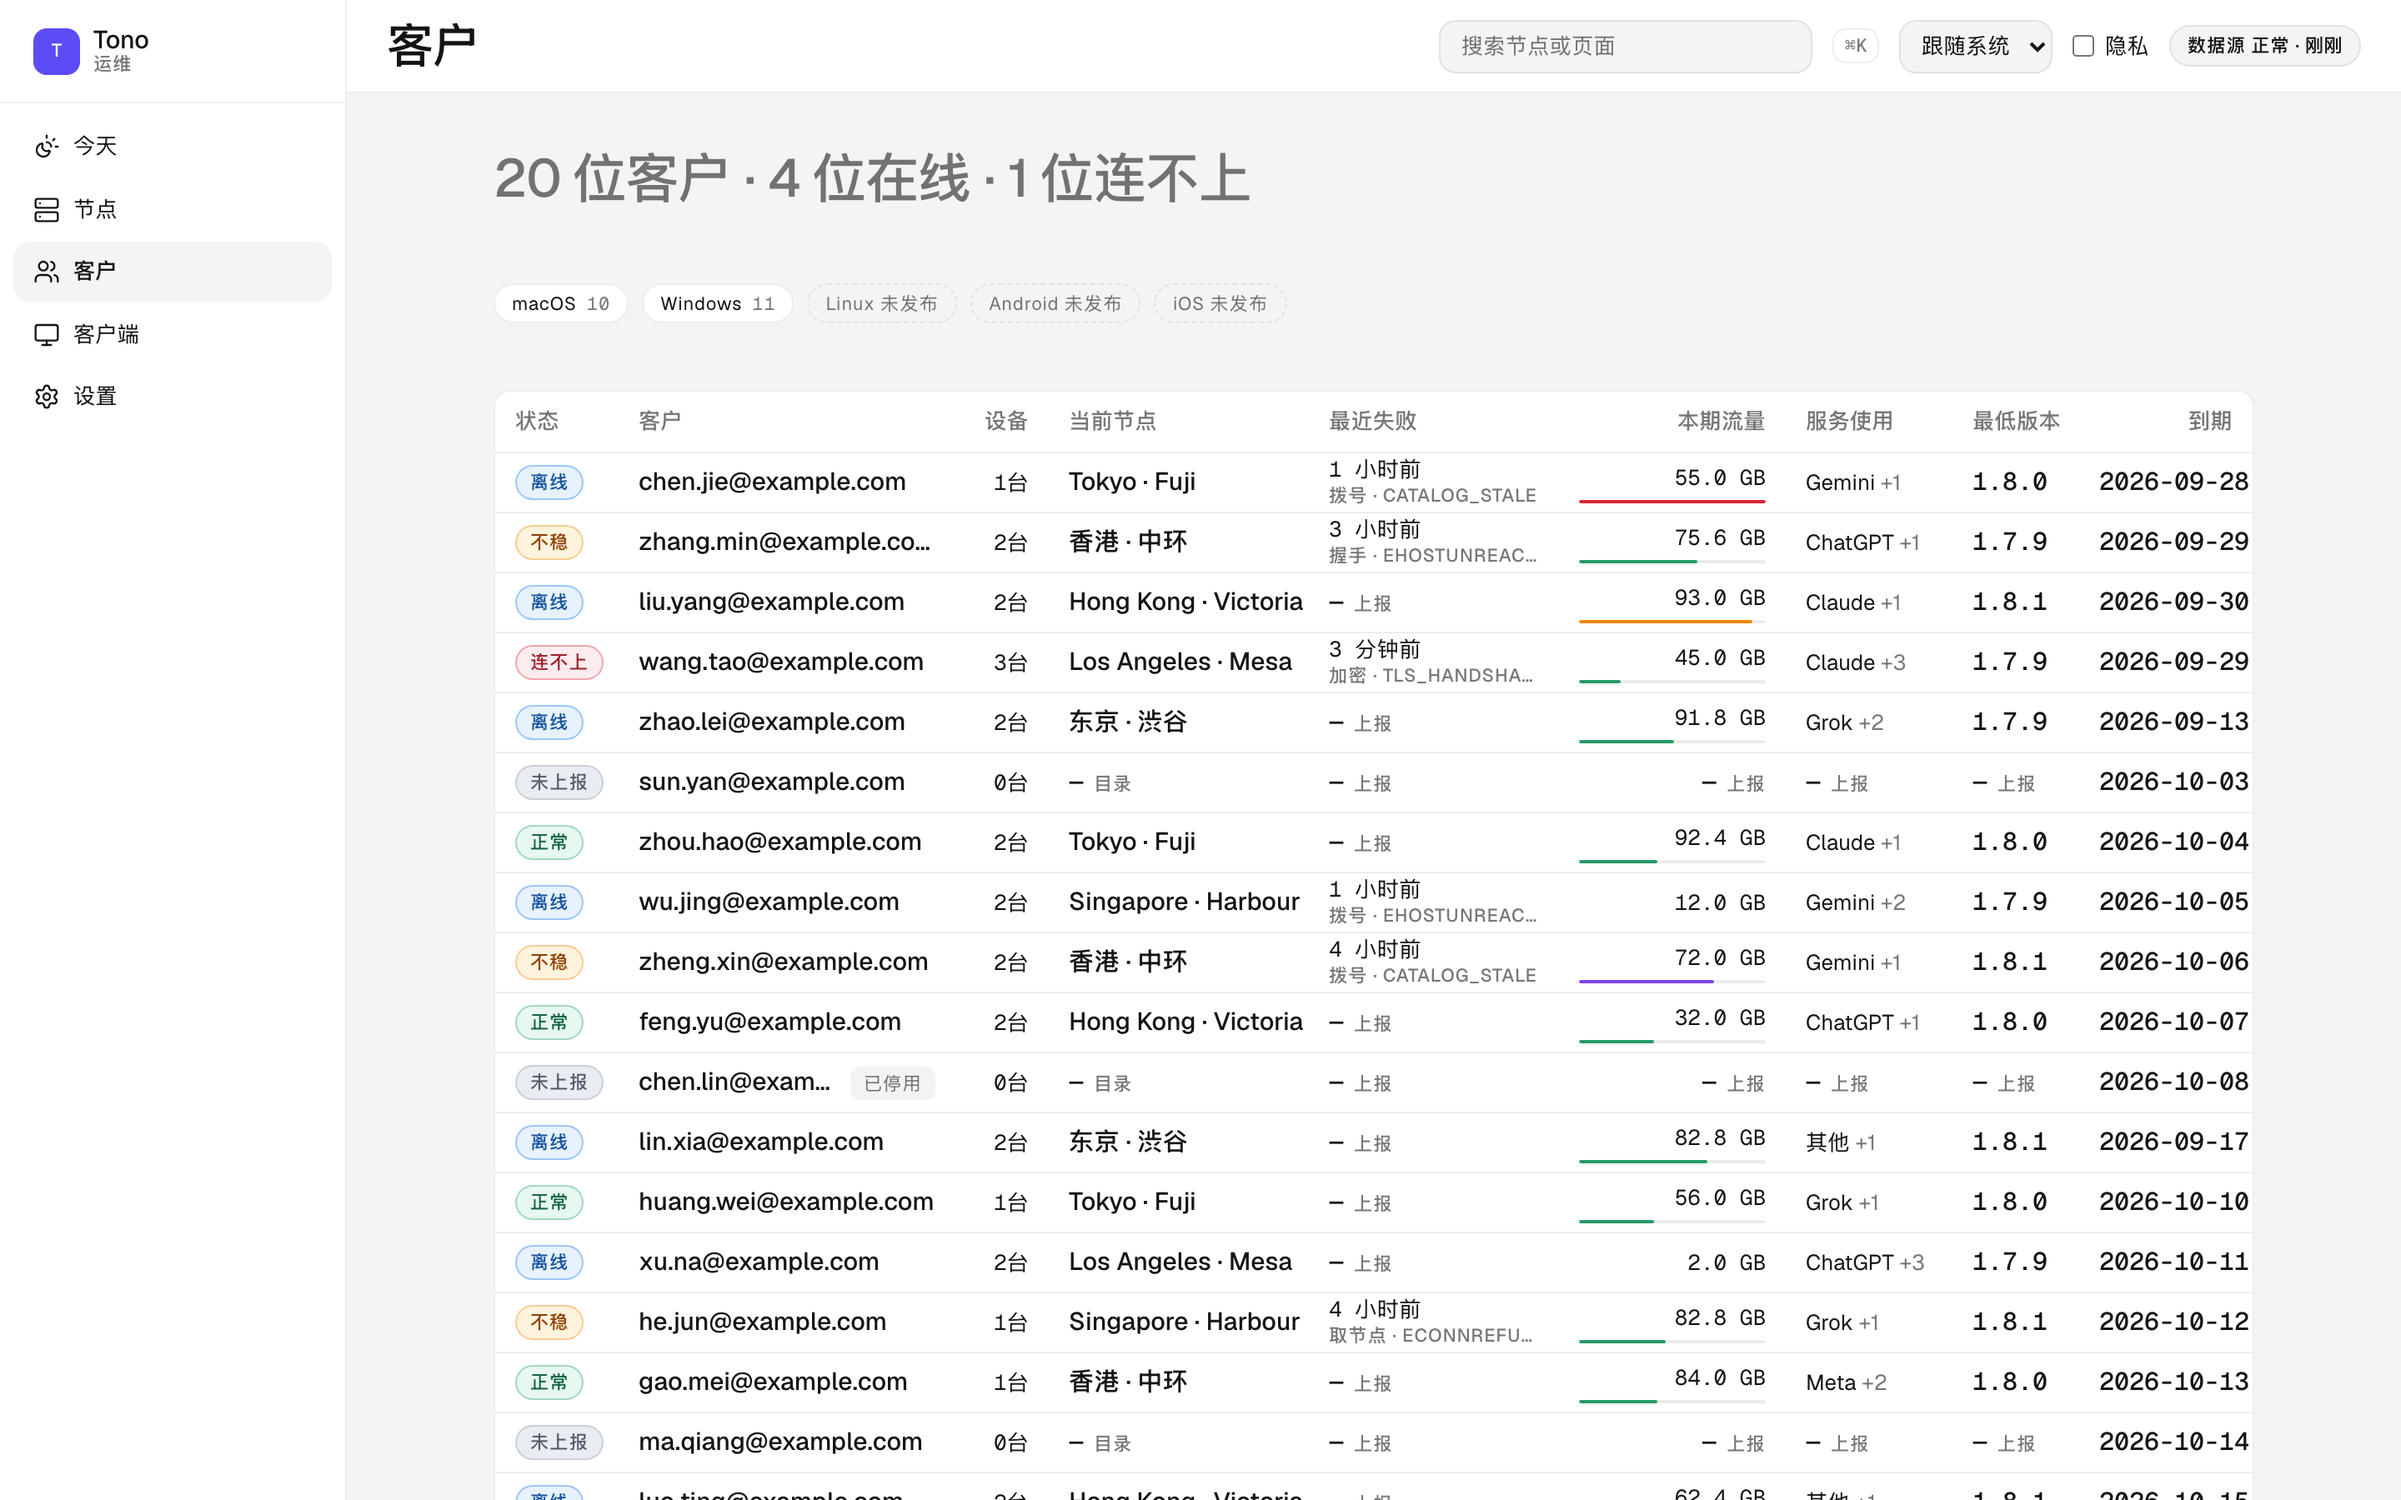
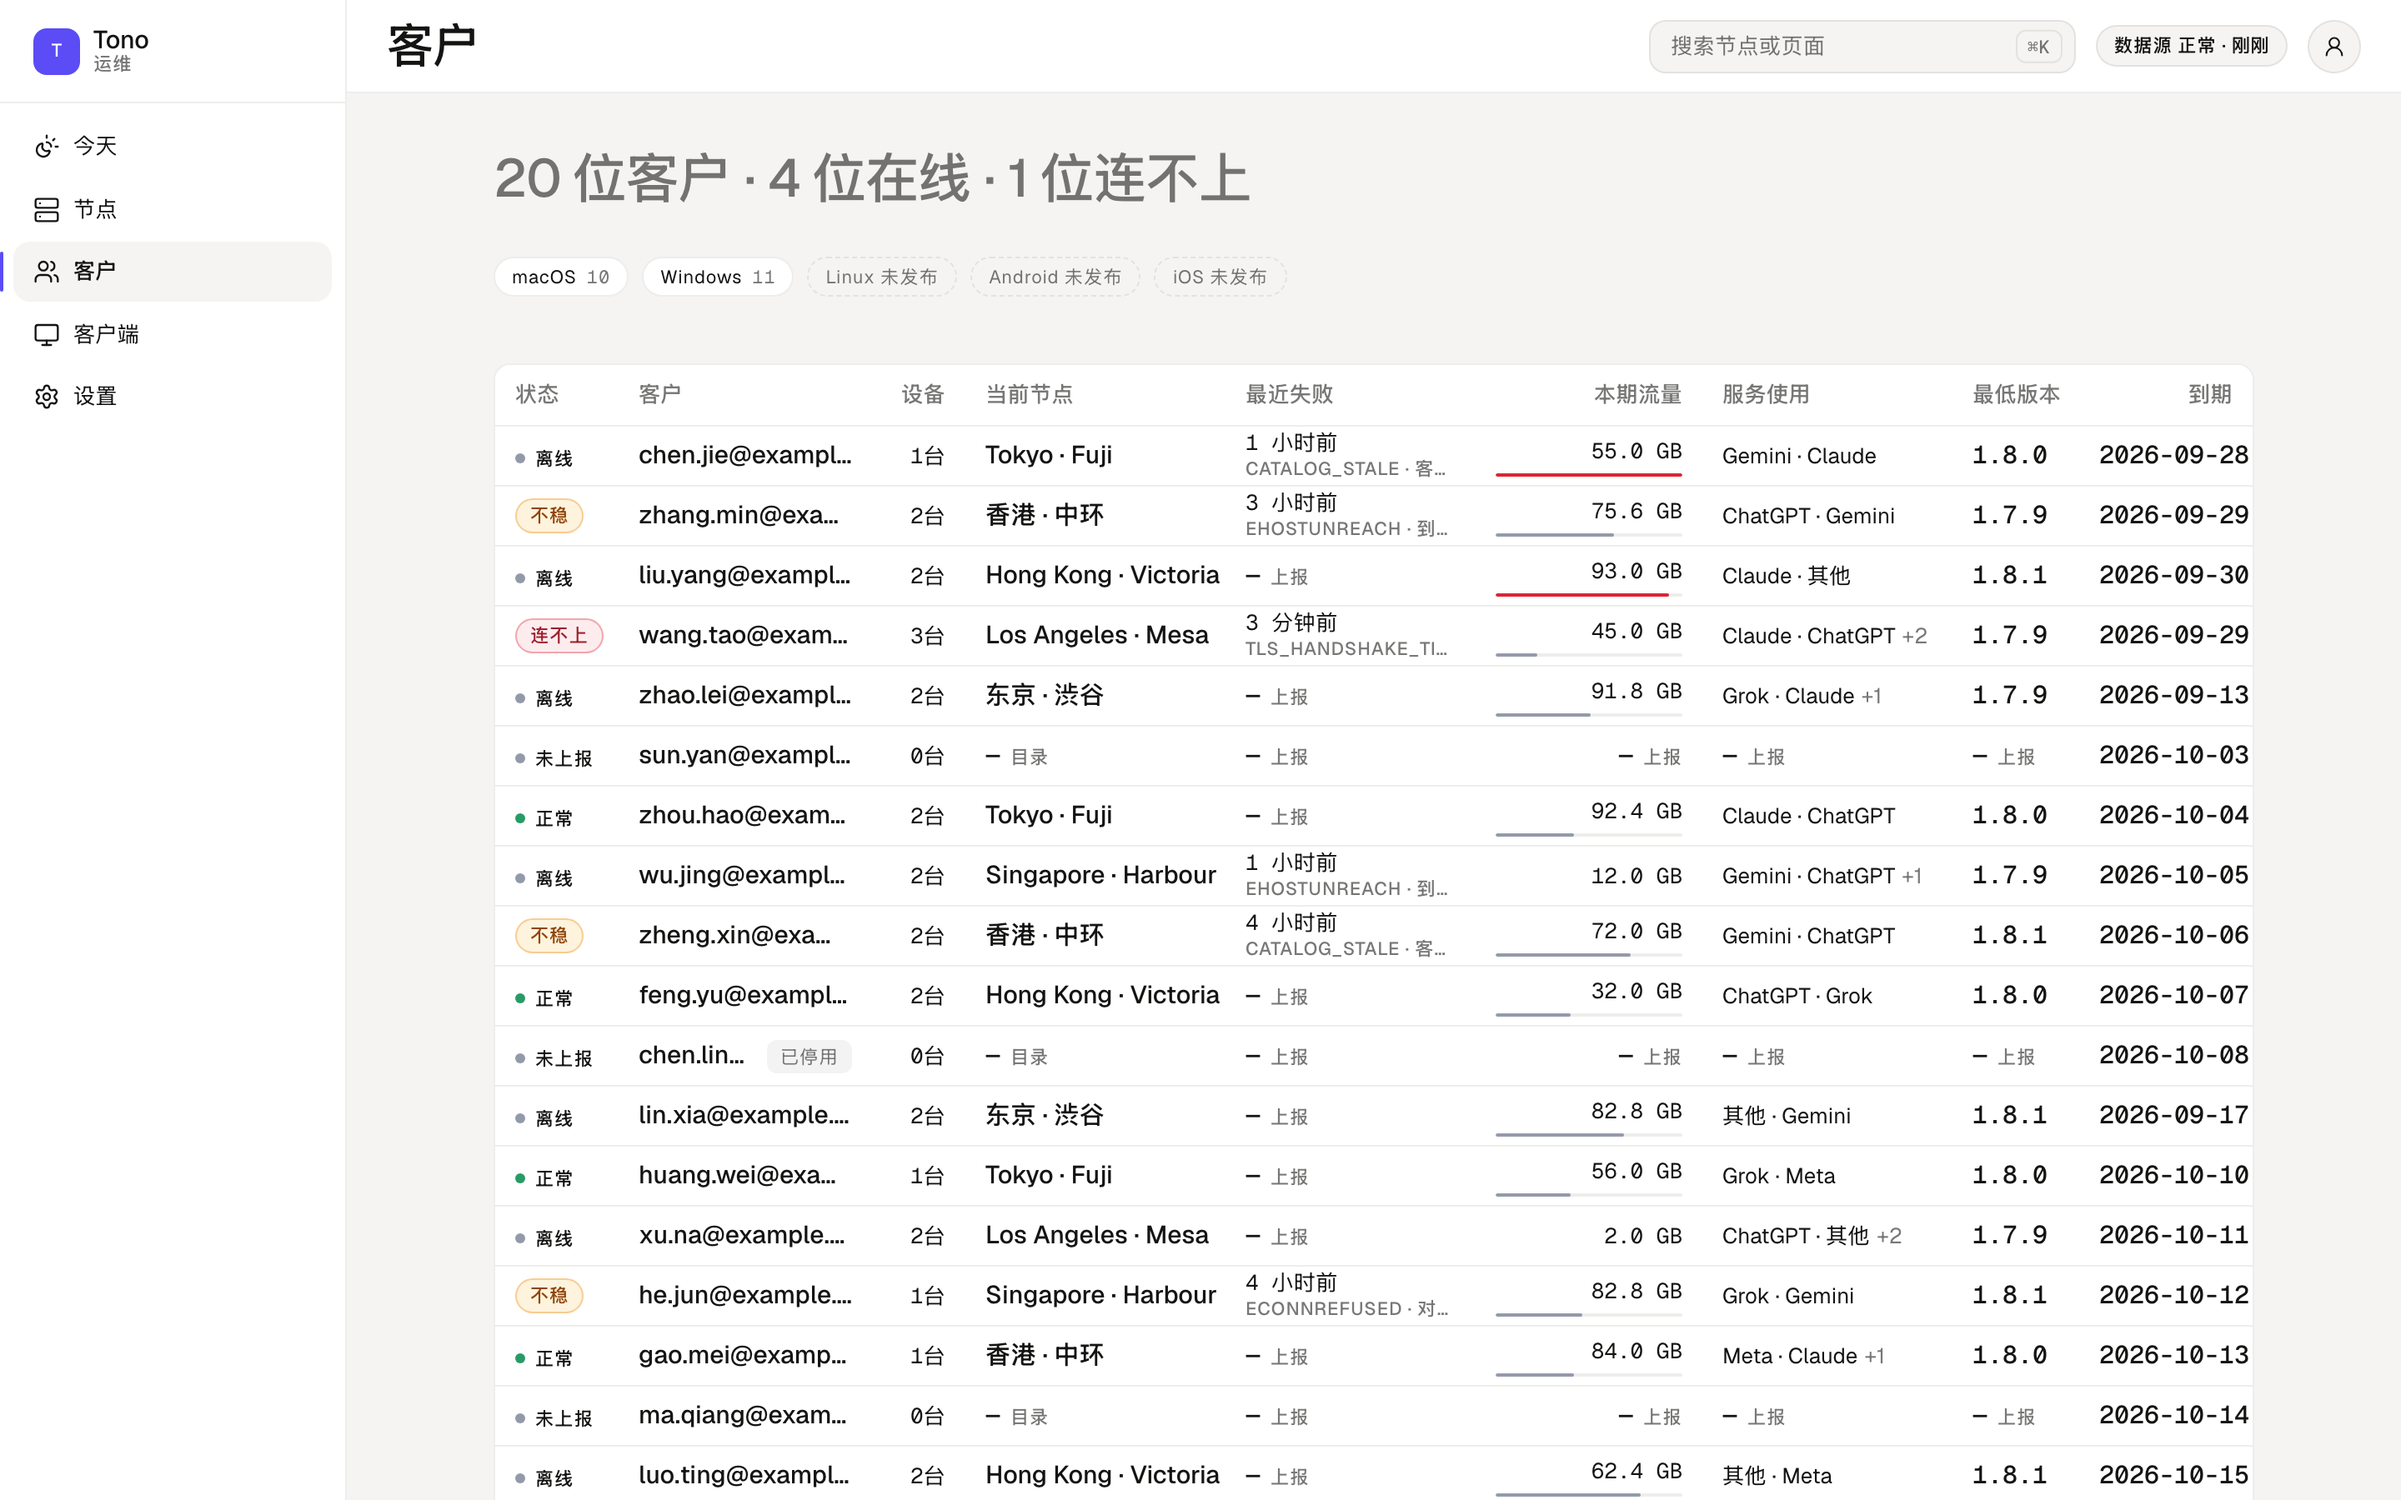
feat(ops-console): three columns of the 客户 table stop hiding their answer
The quota bar carried the node card's four-step scale, so twenty rows made
a column of green, orange, purple and red down the table edge — a ranking
nobody asked for, of which only one step (90 %) changes what anyone does.
The row bar now knows one thing: whether this customer is about to run out.
The same bar on 客户 360 follows it, because it is the same subject.

最近失败 showed 阶段 · 代码, so the cell said `拨号 · ETIMEDOUT` and the
sentence explaining it lived in a tooltip. It now leads with 代码 · 中文解释
— the token to search for and the sentence to act on — and the stage, the
least of the three, moves into the title with the rest.

服务使用 named the busiest family and counted the rest, which made every
multi-service customer look alike. Two names is what separates a
Claude-and-ChatGPT account from a Claude-and-Meta one; the column widens to
fit them and the `+N` is pinned so truncation eats the names, never the
count.

Claude-Session: https://claude.ai/code/session_01MxNERtbNADnXgvBi3tgsbA

diff --git a/services/ops-console/src/pages/Customers.tsx b/services/ops-console/src/pages/Customers.tsx
@@ -179,7 +179,7 @@ function customerColumns(mask: Mask): DataColumn<CustomerSummaryDto>[] {
     {
       id: 'services',
       header: copy.customerColumns.services,
-      width: '100px',
+      width: '150px',
       cell: (row) => (
         row.services.length === 0
           ? <Value value={null} source={copy.sourceWord.telemetry} />
@@ -212,16 +212,27 @@ function customerColumns(mask: Mask): DataColumn<CustomerSummaryDto>[] {
   ];
 }
 
-/** When, at which stage, and what the client called it — in that order. */
+/**
+ * When it happened, then what the client called it and what that means.
+ *
+ * `ETIMEDOUT` on its own tells an operator nothing an hour later, and the
+ * Chinese sentence on its own loses the token they will paste into a search.
+ * The column has 150 px, so the pair is truncated and the title carries the
+ * whole thing — including the stage, which is the least of the three and the
+ * first to go.
+ */
 function FailureCell({ row }: { row: CustomerSummaryDto }) {
   const failure = row.lastFailure;
   if (!failure) return <Value value={null} source={copy.sourceWord.telemetry} />;
-  const stage = stageWord(failure.stage);
+  const why = explainCode(failure.code);
+  const said = failure.code ? [failure.code, why].filter(Boolean).join(' · ') : why;
+  const line = said ?? stageWord(failure.stage) ?? copy.missing;
+  const full = [stageWord(failure.stage), said].filter(Boolean).join(' · ');
   return (
-    <span className="flex min-w-0 flex-col leading-tight" title={explainCode(failure.code) ?? undefined}>
+    <span className="flex min-w-0 flex-col leading-tight" title={full || undefined}>
       <span className="truncate font-mono text-body">{formatWhenAgo(failure.at)}</span>
-      <span className="truncate text-micro text-[var(--muted-foreground)]">
-        {[stage, failure.code].filter(Boolean).join(' · ')}
+      <span className="truncate text-micro normal-case tracking-normal text-[var(--muted-foreground)]">
+        {line}
       </span>
     </span>
   );
@@ -264,24 +275,33 @@ function UsageCell({ row }: { row: CustomerSummaryDto }) {
       )}
     >
       <span className="truncate">{used.number} {used.unit}</span>
-      <QuotaBar used={usage.value} quota={quota} />
+      <QuotaBar used={usage.value} quota={quota} alarmOnly />
     </span>
   );
 }
 
 /**
- * The busiest family, and how many others there are.
+ * The two busiest families, and how many others there are.
  *
- * Two names do not fit in a hundred pixels and a truncated "Claude · ChatG"
- * is a worse answer than "Claude +2" — the count is exact, and the full list
- * is one hover or one click away.
+ * One name plus a count made every multi-service customer look the same;
+ * two names is what actually separates a Claude-and-ChatGPT account from a
+ * Claude-and-Meta one, which is the distinction this column exists for. Three
+ * does not fit, so the tail becomes an exact count and the full list stays one
+ * hover away.
  */
+const SERVICES_SHOWN = 2;
+
 function ServicesCell({ families }: { families: CustomerSummaryDto['services'] }) {
-  const rest = families.length - 1;
+  const rest = families.length - SERVICES_SHOWN;
   return (
-    <span className="truncate" title={families.map((f) => copy.serviceName[f]).join(' · ')}>
-      {copy.serviceName[families[0]]}
-      {rest > 0 ? <span className="text-[var(--muted-foreground)]"> +{rest}</span> : null}
+    <span
+      className="flex min-w-0 items-baseline gap-1"
+      title={families.map((f) => copy.serviceName[f]).join(' · ')}
+    >
+      <span className="min-w-0 truncate">
+        {families.slice(0, SERVICES_SHOWN).map((f) => copy.serviceName[f]).join(' · ')}
+      </span>
+      {rest > 0 ? <span className="shrink-0 text-[var(--muted-foreground)]">+{rest}</span> : null}
     </span>
   );
 }

diff --git a/services/ops-console/src/components/ops/QuotaGauge.tsx b/services/ops-console/src/components/ops/QuotaGauge.tsx
@@ -20,6 +20,21 @@ export function quotaTone(used: number | null, quota: number | null): Tone {
   return 'ok';
 }
 
+/**
+ * Two tones, not four.
+ *
+ * The four-step scale is right on a node card, where one bar sits alone under
+ * one number and the steps are the quota engine's own thresholds. Down the
+ * edge of a table of twenty customers it becomes a column of green, orange,
+ * purple and red that reads as a ranking nobody asked for — and only one of
+ * those steps changes what the operator does. So the row bar knows one thing:
+ * whether this customer is about to run out.
+ */
+export function alarmTone(used: number | null, quota: number | null): Tone {
+  if (used == null || quota == null || quota <= 0) return 'unk';
+  return used / quota >= 0.9 ? 'sev' : 'unk';
+}
+
 export function usedRatio(used: number | null, quota: number | null): number {
   if (used == null || quota == null || quota <= 0) return 0;
   return Math.min(1, Math.max(0, used / quota));
@@ -29,20 +44,24 @@ export function usedRatio(used: number | null, quota: number | null): number {
 export function QuotaBar({
   used,
   quota,
+  alarmOnly,
   className,
 }: {
   used: number | null;
   quota: number | null;
+  /** One row among many: see `alarmTone`. */
+  alarmOnly?: boolean;
   className?: string;
 }) {
   const ratio = usedRatio(used, quota);
+  const tone = alarmOnly ? alarmTone(used, quota) : quotaTone(used, quota);
   return (
     <div
       className={cn('h-[2px] w-full overflow-hidden rounded-[999px] bg-[var(--hairline)]', className)}
       aria-hidden
     >
       <div
-        className={cn('h-full rounded-[999px]', `tone-${quotaTone(used, quota)}`)}
+        className={cn('h-full rounded-[999px]', `tone-${tone}`)}
         style={{ width: `${Math.min(100, Math.max(2, ratio * 100))}%`, background: 'hsl(var(--tone-line))' }}
       />
     </div>

diff --git a/services/ops-console/src/pages/CustomerDetail.tsx b/services/ops-console/src/pages/CustomerDetail.tsx
@@ -213,7 +213,7 @@ function Quota({ billing }: { billing: CustomerBillingDto }) {
                 : formatPercent((quota - (usage.value ?? 0)) / quota)}
             </span>
           </div>
-          <QuotaBar used={usage.value} quota={quota} />
+          <QuotaBar used={usage.value} quota={quota} alarmOnly />
         </>
       )}
     </div>
